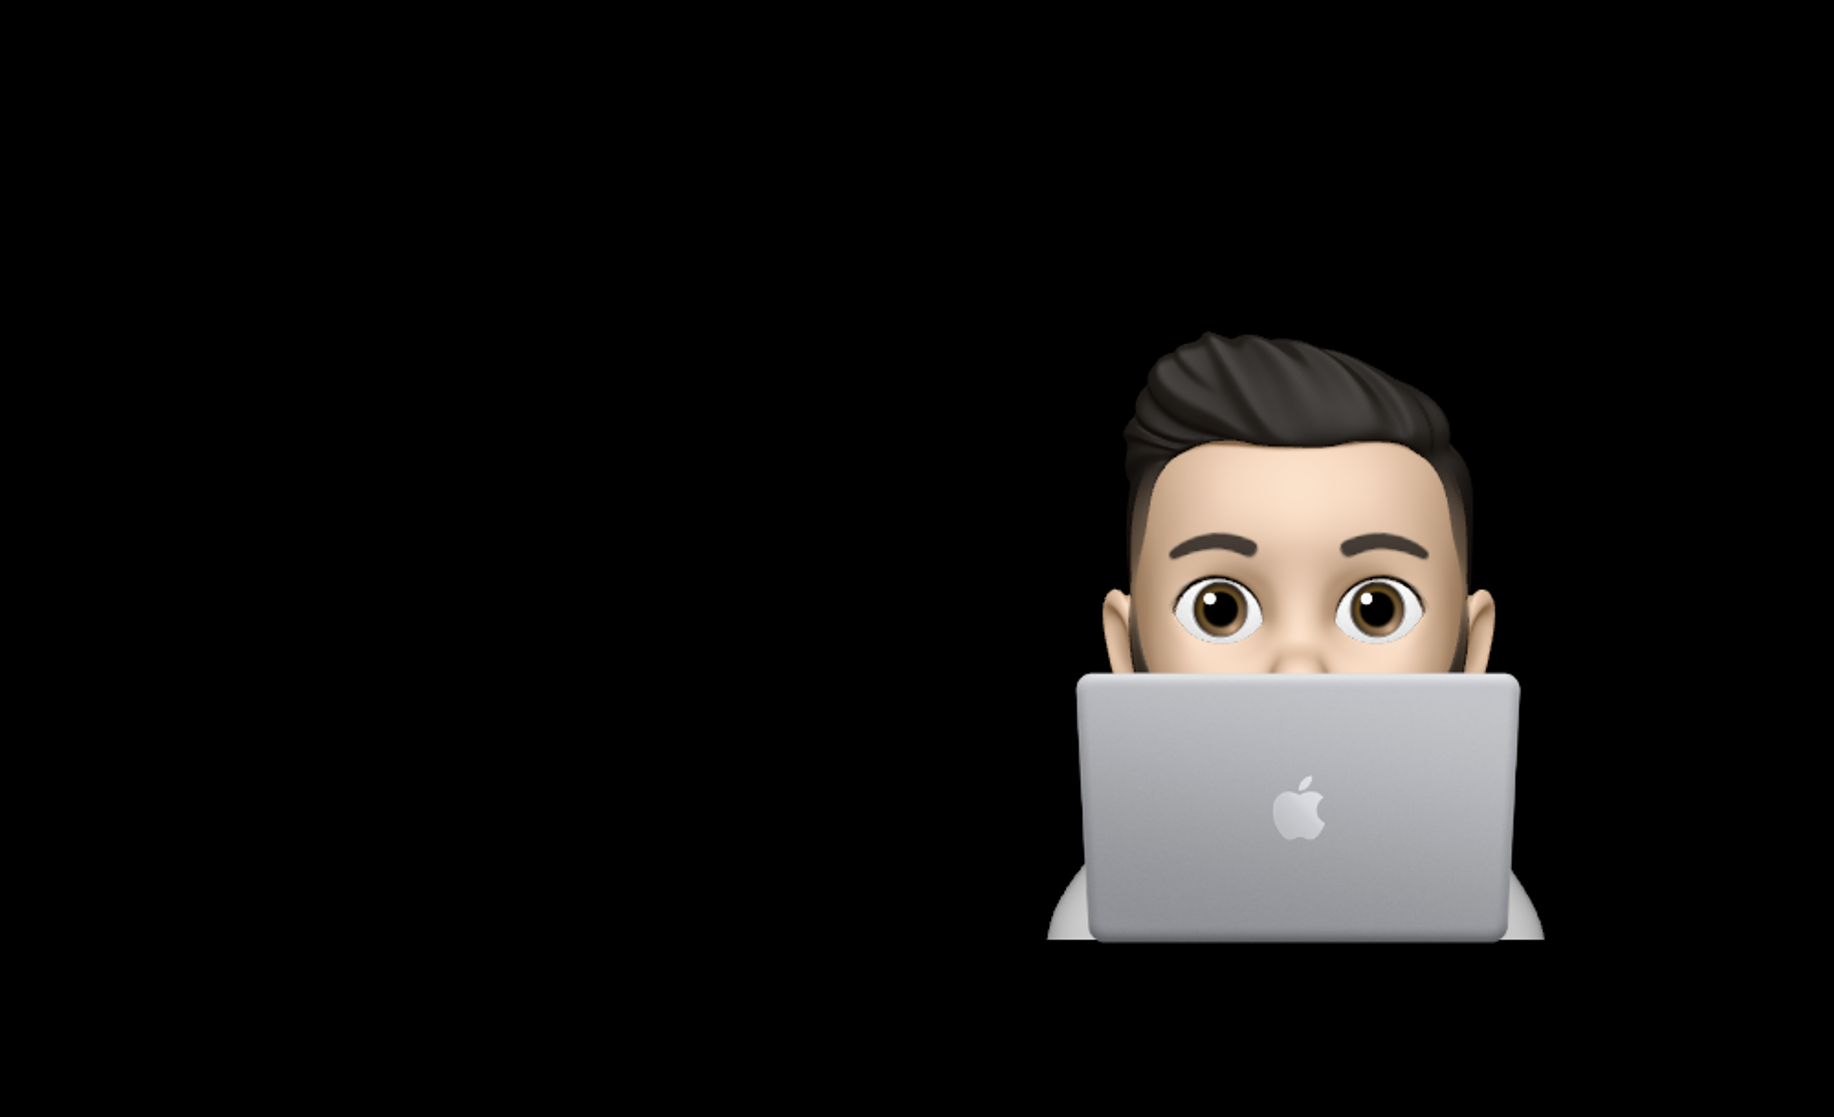
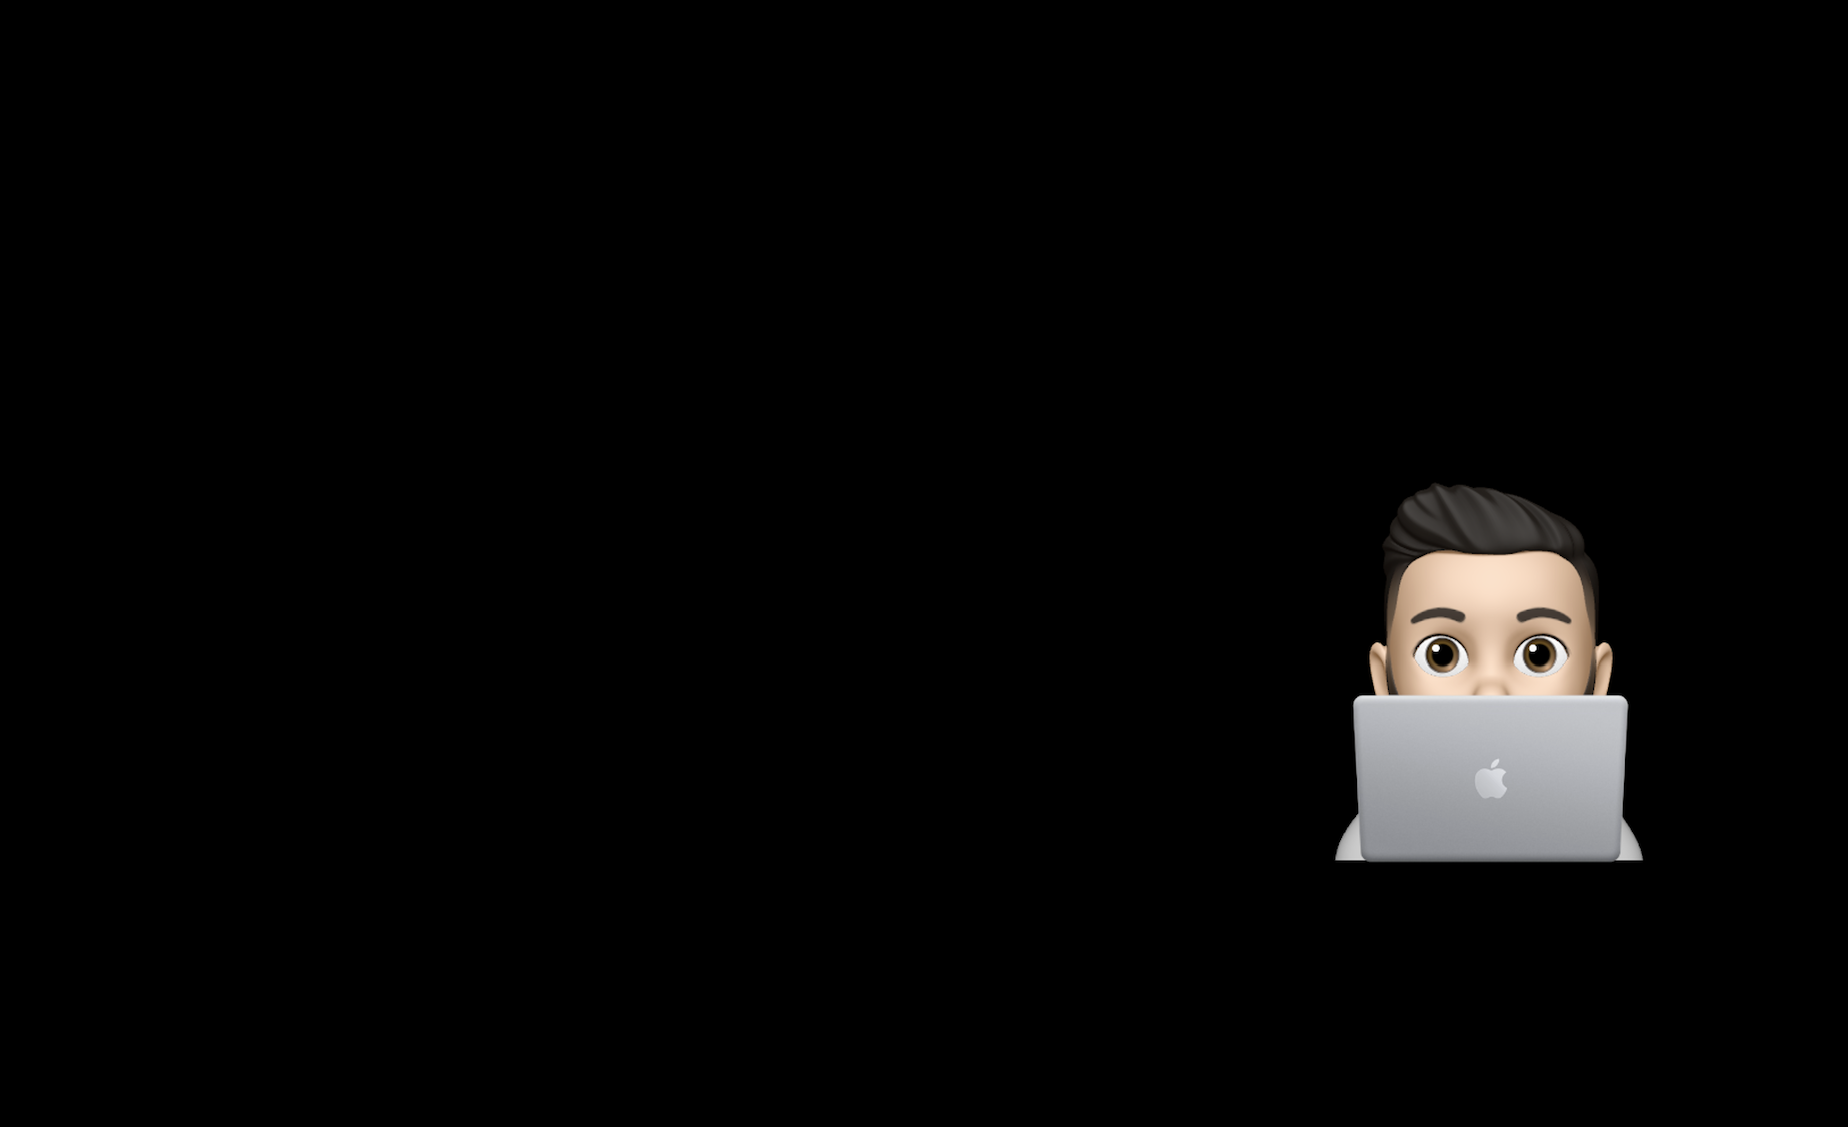
12:36

Changed region(s): [[0.5594, 0.2739, 0.9013, 0.8523]]

diff --git a/styles.css b/styles.css
@@ -8,7 +8,7 @@
 .hero{
     height: 100vh;
     width: 100%;
-    background-image: url(https://i.ibb.co/pr0STDR/main-photo.png);
+    background-image: url(https://i.ibb.co/McNvpsr/main-photo.png);
     background-size: cover;
     background-position: center;
 }
